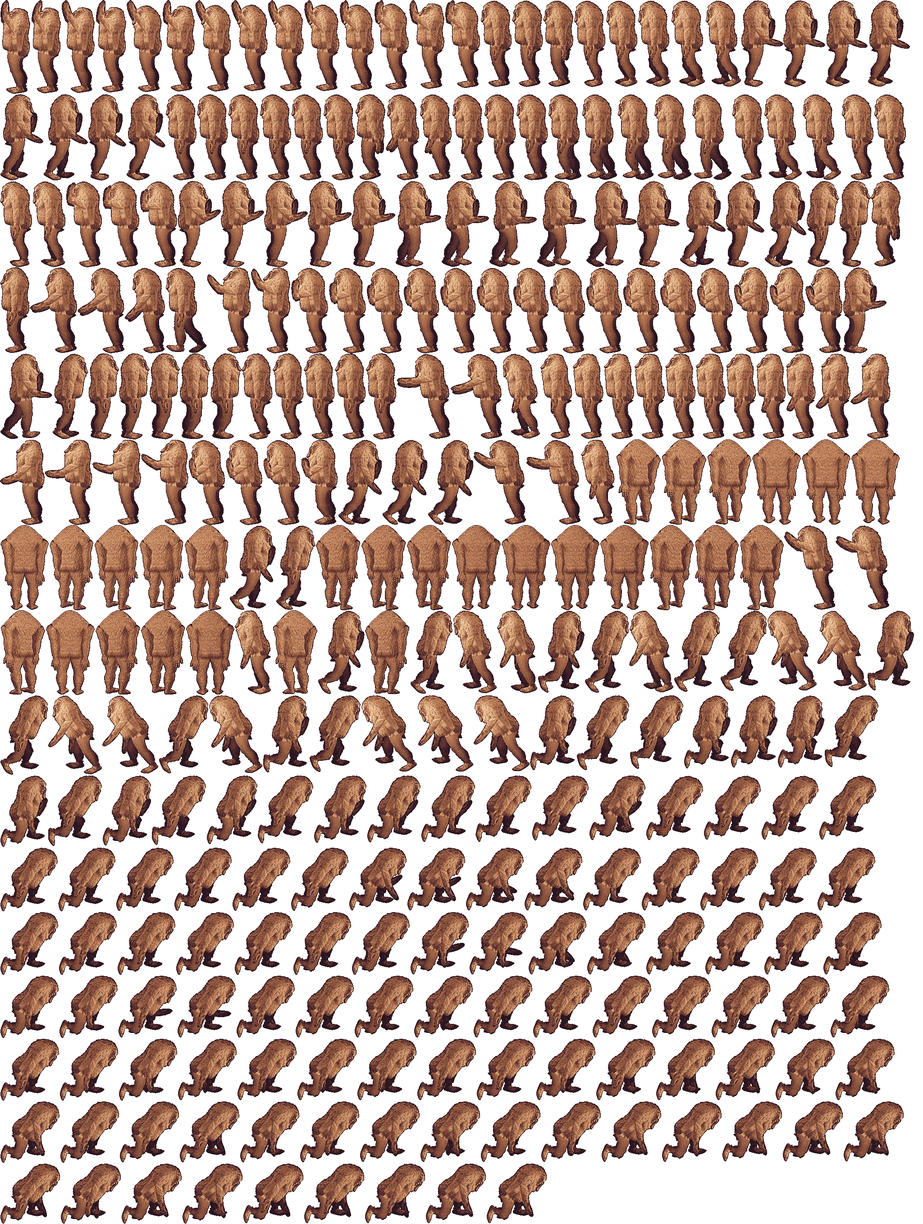
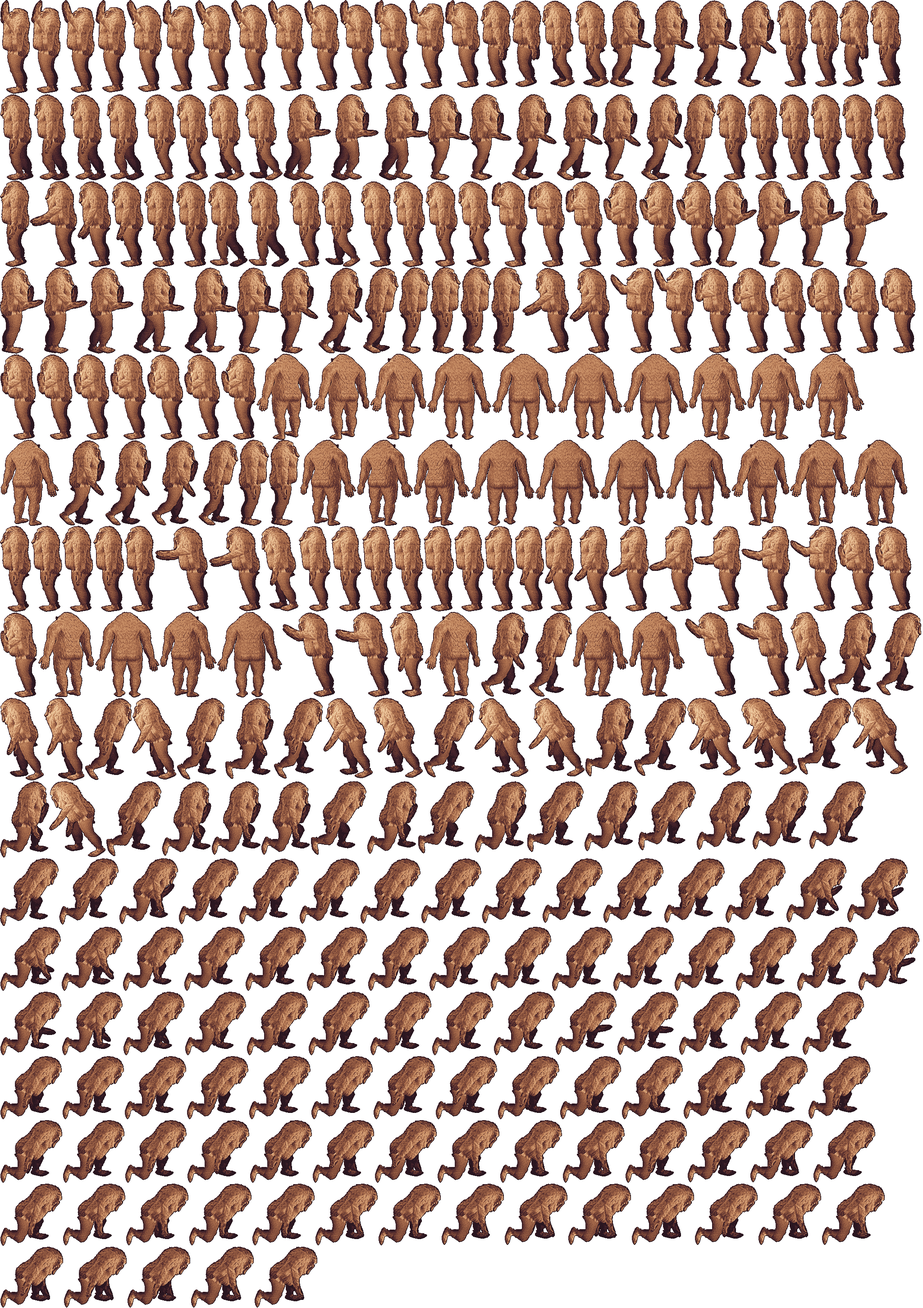
Title animation: rounded joints, ankles, and skinned back-view shoulders
- Knee, hip and elbow pieces share a round cap around each pivot, so a bent
  joint never shows a straight cut; the hip cap only takes the thigh's half.
- Feet are their own piece on an ankle joint.
- Upper thigh widened to match the model's side view.
- Back views: the upper body is one skinned layer, so the shoulders slope into
  the arms like the model instead of being cut; arms hang in a relaxed A-pose.

Claude-Session: https://claude.ai/code/session_01JpLHzsYAvEKzmccr94t7N9

diff --git a/android/play/concepts/pixel/rig4.py b/android/play/concepts/pixel/rig4.py
@@ -18,8 +18,9 @@ S = 0.5
 def P(c, p): return (p[0] * S + c, p[1] * S + c)
 
 class Side:
-    HIP, KNEE, SHOULDER, ELBOW, NECK, HAND = (235, 610), (205, 880), (195, 320), (232, 545), (175, 262), (252, 762)
+    HIP, KNEE, SHOULDER, ELBOW, NECK, HAND = (235, 610), (232, 875), (195, 320), (232, 545), (175, 262), (252, 762)
     ARM = rig3.Side.ARM
+    ANKLE = (256, 1008)
     def __init__(self):
         raw = Image.open('side.png')
         noarm = self._inpaint(raw)
@@ -34,6 +35,9 @@ class Side:
         legsrc = canvas(Image.fromarray(legfix.single_leg(noarm)))   # one clean leg (no overlap seams)
         yy, xx = np.mgrid[0:self.H, 0:self.W]
         sy = (yy - pad) / S; sx = (xx - pad) / S          # source (side.png) coordinates
+        # round joint caps: both pieces of a joint share a soft disc around the pivot, so the
+        # overlap looks the same at any angle (no straight cut shows when the joint bends)
+        def disc(c, R): return 1 - skin.ss((np.hypot(sx - c[0], sy - c[1]) - R + 3) / 6.0)
         # arm: the painted-out region of the original, with a soft top so it melts into the shoulder
         armM = Image.new('L', raw.size, 0); ImageDraw.Draw(armM).polygon(self.ARM, fill=255)
         armM = np.asarray(Image.fromarray(np.asarray(armM)).resize(sz, Image.LANCZOS).filter(ImageFilter.GaussianBlur(1.5))).astype(float) / 255
@@ -50,6 +54,7 @@ class Side:
         fore_w = skin.ss((sA - sE + 16) / 22.0)
         # the top of the upper arm melts into the shoulder over a long, soft fade
         upper_w = upper_w * skin.ss((sA + 30) / 75.0)
+        upper_w = np.maximum(upper_w, disc(self.ELBOW, 40) * skin.ss((sA + 30) / 75.0)); fore_w = np.maximum(fore_w, disc(self.ELBOW, 40))
         # round the fingertips: soften the hand end into a rounded silhouette
         sHand = (self.HAND[0] - shx) * d[0] + (self.HAND[1] - shy) * d[1]
         endz = skin.ss((sA - sHand + 70) / 30.0)
@@ -61,15 +66,18 @@ class Side:
         # the hip line: front of the thigh (low) up through the hip joint to the buttocks (lower at the back)
         hipline = np.interp(sx, [0, 110, 235, 330, 400], [575, 590, 612, 650, 660])
         # legs: everything below the hip line, faded in so the top tucks under the body
-        lf = skin.ss((sy - hipline + 45) / 40.0)
+        lf = np.maximum(skin.ss((sy - hipline + 45) / 40.0), disc(self.HIP, 70) * skin.ss((sy - self.HIP[1] + 6) / 12.0))   # lower half: what's above the hip stays with the body
         l = legsrc.copy(); l[..., 3] = (l[..., 3] * lf).astype(np.uint8)
         self.leg = l
-        thw = 1 - skin.ss((sy - self.KNEE[1] - 8) / 30.0); snw = skin.ss((sy - self.KNEE[1] + 22) / 30.0)
+        kd = disc(self.KNEE, 62); ad = disc(self.ANKLE, 50)
+        thw = np.maximum(1 - skin.ss((sy - self.KNEE[1] - 8) / 30.0), kd); snw = np.maximum(skin.ss((sy - self.KNEE[1] + 22) / 30.0), kd)
+        snw = snw * np.maximum(1 - skin.ss((sy - self.ANKLE[1] - 6) / 20.0), ad)
+        ftw = np.maximum(skin.ss((sy - self.ANKLE[1] + 10) / 20.0), ad)
         def part(img, w):
             o = img.copy(); o[..., 3] = (img[..., 3] * w).astype(np.uint8); return o
-        self.thigh = part(l, thw); self.shin = part(l, snw)
+        self.thigh = part(l, thw); self.shin = part(l, snw); self.foot = part(l, ftw)
         dk = lambda im: np.concatenate([(im[..., :3] * 0.78).astype(np.uint8), im[..., 3:4]], 2)
-        self.fthigh = dk(self.thigh); self.fshin = dk(self.shin)
+        self.fthigh = dk(self.thigh); self.fshin = dk(self.shin); self.ffoot = dk(self.foot)
         # body: everything above the legs (head included), fading out over the thighs
         bf = 1 - skin.ss((sy - hipline + 4) / 18.0)
         bd = body.copy(); bd[..., 3] = (bd[..., 3] * bf).astype(np.uint8)
@@ -124,11 +132,11 @@ class Side:
         wh = skin.ss((up + 40) / 120.0) * (1 - skin.ss((sx - 250) / 120.0))
         return [1 - wh, wh]
 
-    def pose(self, torso=0, head=0, nsh=-8, nel=0, fsh=-4, fel=0, nth=0, nsn=0, fth=0, fsn=0):
+    def pose(self, torso=0, head=0, nsh=-8, nel=0, fsh=-4, fel=0, nth=0, nsn=0, fth=0, fsn=0, nft=0, fft=0):
         """Limbs move as solid pieces (they never crumple) and fade into the body at the shoulder
         and hip; the neck is skinned. Upper arm and forearm overlap at the elbow, thigh and shin at the knee."""
         c = self.PAD
-        H_, K_, SH_, EL_, N_ = (P(c, p) for p in (self.HIP, self.KNEE, self.SHOULDER, self.ELBOW, self.NECK))
+        H_, K_, SH_, EL_, N_, AN_ = (P(c, p) for p in (self.HIP, self.KNEE, self.SHOULDER, self.ELBOW, self.NECK, self.ANKLE))
         T = skin.rot(torso, *H_)
         out = np.zeros((self.H, self.W, 4), np.float32)
         def over(layer):
@@ -145,14 +153,14 @@ class Side:
         def arm(up, fo, sh, el):
             A = T @ skin.rot(sh, *SH_); F = A @ skin.rot(el, *EL_)
             return rigid(up, A), rigid(fo, F), A, F
-        def leg(th_l, sn_l, th, sn, off=(0.0, 0.0)):
+        def leg(th_l, sn_l, ft_l, th, sn, ft, off=(0.0, 0.0)):
             O = np.eye(3); O[0, 2], O[1, 2] = off[0] * S, off[1] * S
-            Th = O @ skin.rot(th, *H_); Sn = Th @ skin.rot(sn, *K_)
-            return rigid(th_l, Th), rigid(sn_l, Sn)
+            Th = O @ skin.rot(th, *H_); Sn = Th @ skin.rot(sn, *K_); Ft = Sn @ skin.rot(ft, *AN_)
+            return rigid(th_l, Th), rigid(sn_l, Sn), rigid(ft_l, Ft)
         fu, ff, fA, fF = arm(self.fupper, self.ffore, fsh, fel)
         over(fu); over(ff)
-        a1, a2 = leg(self.fthigh, self.fshin, fth, fsn, (38, -6)); over(a2); over(a1)
-        b1, b2 = leg(self.thigh, self.shin, nth, nsn); over(b2); over(b1)
+        a1, a2, a3 = leg(self.fthigh, self.fshin, self.ffoot, fth, fsn, fft, (38, -6)); over(a3); over(a2); over(a1)
+        b1, b2, b3 = leg(self.thigh, self.shin, self.foot, nth, nsn, nft); over(b3); over(b2); over(b1)
         over(skin.warp(self.body, [T, T @ skin.rot(head, *N_)], self.w_body))
         nu, nf, nA, nF = arm(self.upper, self.fore, nsh, nel)
         over(nu); over(nf)
@@ -161,32 +169,32 @@ class Side:
         return Image.fromarray(np.clip(out, 0, 255).astype(np.uint8)), info
 
 class Back:
-    """Back views: the arms come down from the T-pose, skinned at the shoulder (they stay attached)."""
+    """Back views. The upper body is ONE skinned layer: each arm swings in from the A-pose about
+    its shoulder, and the shoulder fur stretches with it (linear blend skinning), so there is no
+    cut at the shoulder. The arm itself is a second layer warped by the very same field and drawn
+    on top, so where it swings in over the body's side it stays in front."""
     def __init__(self, name, arms, lhang, rhang, crotch):
         raw = Image.open(name); self.src = raw
         sz = (round(raw.width * S), round(raw.height * S)); self.PAD = pad = 300
         self.W, self.H = sz[0] + 2 * pad, sz[1] + 2 * pad
         c = Image.new('RGBA', (self.W, self.H)); c.paste(raw.resize(sz, Image.LANCZOS), (pad, pad)); full = np.asarray(c).copy()
         yy, xx = np.mgrid[0:self.H, 0:self.W]; sx = (xx - pad) / S; sy = (yy - pad) / S
-        self.arms = []; body_alpha = full[..., 3].astype(float)
+        self.armdefs = []; body_alpha = full[..., 3].astype(float); armlayer = np.zeros_like(full)
         for poly, sh, hand, hang in ((arms[0][0], arms[0][1], arms[0][2], lhang), (arms[1][0], arms[1][1], arms[1][2], rhang)):
             m = Image.new('L', raw.size, 0); ImageDraw.Draw(m).polygon(poly, fill=255)
+            mw = np.asarray(m.filter(ImageFilter.MaxFilter(41)).resize(sz, Image.LANCZOS).filter(ImageFilter.GaussianBlur(10))).astype(float) / 255
             m = np.asarray(m.resize(sz, Image.LANCZOS).filter(ImageFilter.GaussianBlur(2))).astype(float) / 255
             M = np.zeros((self.H, self.W)); M[pad:pad + sz[1], pad:pad + sz[0]] = m
+            MW = np.zeros((self.H, self.W)); MW[pad:pad + sz[1], pad:pad + sz[0]] = mw
             d = (hand[0] - sh[0], hand[1] - sh[1]); L = math.hypot(*d); d = (d[0] / L, d[1] / L)
-            s = (sx - sh[0]) * d[0] + (sy - sh[1]) * d[1]
-            fade = skin.ss((s + 30) / 40.0)
-            layer = full.copy(); layer[..., 3] = (full[..., 3] * M * fade).astype(np.uint8)
-            body_alpha = body_alpha * (1 - M * skin.ss((s + 10) / 30.0))
-            self.arms.append((layer, sh, d, hang))
+            sA = (sx - sh[0]) * d[0] + (sy - sh[1]) * d[1]
+            # the arm layer starts a little past the shoulder; the body keeps everything before it
+            af = M * skin.ss((sA - 20) / 40.0)
+            armlayer[..., :3] = np.where(af[..., None] > 0.01, full[..., :3], armlayer[..., :3])
+            armlayer[..., 3] = np.maximum(armlayer[..., 3], (full[..., 3] * af)).astype(np.uint8)
+            body_alpha = body_alpha * (1 - M * skin.ss((sA - 62) / 20.0))   # only once the arm layer is opaque
+            self.armdefs.append(((sh[0] * S + pad, sh[1] * S + pad), d, sh, hang, MW))
         b = full.copy(); b[..., 3] = np.clip(body_alpha, 0, 255).astype(np.uint8)
-        # round the shoulders where the arms came away
-        bi = Image.fromarray(b); al = bi.getchannel('A')
-        top = Image.new('L', bi.size, 0); ImageDraw.Draw(top).rectangle([0, 0, self.W, int(pad + (arms[0][1][1] + 160) * S)], fill=255)
-        dome = al.filter(ImageFilter.GaussianBlur(14)).point(lambda v: 255 if v > 140 else 0)
-        from PIL import ImageChops
-        bi.putalpha(Image.composite(ImageChops.multiply(dome, al), al, top))
-        b = np.asarray(bi).copy()
         # legs, split at the crotch, so each foot can step during a turn
         cx_, cy_ = crotch
         legf = skin.ss((sy - cy_ + 70) / 40.0)
@@ -197,13 +205,47 @@ class Back:
             self.legs.append(l)
         bodyf = 1 - skin.ss((sy - cy_ - 10) / 20.0)
         b[..., 3] = (b[..., 3] * bodyf).astype(np.uint8)
-        self.body = b
+        self.body = b; self.armlayer = armlayer
         self.crotch = (cx_ * S + pad, cy_ * S + pad)
         self.hipx = ((arms[0][1][0] + arms[1][1][0]) / 2) * S + pad
 
+    def _weights(self):
+        pad = self.PAD; defs = self.armdefs
+        def w(x, y):
+            sx = (x - pad) / S; sy = (y - pad) / S
+            ws = []
+            for piv, d, sh, hang, MW in defs:
+                sA = (sx - sh[0]) * d[0] + (sy - sh[1]) * d[1]
+                # the arm (dilated into the armpit gap), and everything outward of its axis, belongs to the
+                # arm (so the inverse warp has one answer and nothing is left behind)
+                t = (d[0] * (sy - sh[1]) - d[1] * (sx - sh[0])) * (-1 if d[0] > 0 else 1)
+                xi = np.clip(np.round(x).astype(int), 0, self.W - 1); yi = np.clip(np.round(y).astype(int), 0, self.H - 1)
+                ws.append(np.maximum(MW[yi, xi], skin.ss(t / 30.0)) * skin.ss((sA + 50) / 110.0))
+            tot = ws[0] + ws[1]; sc = np.where(tot > 1, 1 / np.maximum(tot, 1e-6), 1.0)
+            ws = [ws[0] * sc, ws[1] * sc]
+            return [1 - ws[0] - ws[1]] + ws
+        return w
+
+    def _arm_weights(self):
+        """For the arm layer alone: each half of the picture follows its arm (ramping in from the
+        shoulder exactly as the body's field does inside the arm), so a hand that swings in front of
+        the hips is still found."""
+        pad = self.PAD; defs = self.armdefs; mid = self.hipx
+        def w(x, y):
+            sx = (x - pad) / S; sy = (y - pad) / S; ws = []
+            for k, (piv, d, sh, hang, MW) in enumerate(defs):
+                sA = (sx - sh[0]) * d[0] + (sy - sh[1]) * d[1]
+                half = (x < mid) if k == 0 else (x >= mid)
+                ws.append(skin.ss((sA + 50) / 110.0) * half)
+            return [1 - ws[0] - ws[1]] + ws
+        return w
+
     def pose(self, tuck=0.0, lift=(0.0, 0.0)):
-        """tuck: hands in toward the chest; lift: how far each foot (left, right as seen) is raised in a step."""
+        """tuck: hands in toward the body; lift: how far each foot (left, right as seen) is raised in a step."""
         out = np.zeros((self.H, self.W, 4), np.float32)
+        def over(l):
+            a = l[..., 3:4].astype(np.float32) / 255
+            out[..., :3] = l[..., :3] * a + out[..., :3] * (1 - a); out[..., 3] = np.maximum(out[..., 3], l[..., 3])
         for side, l in enumerate(self.legs):
             u = lift[side]
             if u > 0.01:
@@ -215,27 +257,21 @@ class Back:
                 pm = np.concatenate([f[..., :3] * al, f[..., 3:4]], 2)
                 r = cv2.warpAffine(pm, M[:2].astype(np.float32), (self.W, self.H), flags=cv2.INTER_LINEAR, borderValue=0)
                 alr = r[..., 3:4] / 255; l = np.zeros_like(l); l[..., :3] = np.clip(np.where(alr > 1e-3, r[..., :3] / np.maximum(alr, 1e-3), 0), 0, 255); l[..., 3] = np.clip(r[..., 3], 0, 255)
-            a = l[..., 3:4].astype(np.float32) / 255
-            out[..., :3] = l[..., :3] * a + out[..., :3] * (1 - a); out[..., 3] = np.maximum(out[..., 3], l[..., 3])
-        a = self.body[..., 3:4].astype(np.float32) / 255
-        out[..., :3] = self.body[..., :3] * a + out[..., :3] * (1 - a); out[..., 3] = np.maximum(out[..., 3], self.body[..., 3])
-        for layer, sh, d, hang in self.arms:
-            ang = hang + (12 * tuck if hang > 0 else -12 * tuck)
-            piv = (sh[0] * S + self.PAD, sh[1] * S + self.PAD)
-            bones = [np.eye(3), skin.rot(ang, *piv)]
-            def w(x, y, sh=sh, d=d):
-                s = ((x - self.PAD) / S - sh[0]) * d[0] + ((y - self.PAD) / S - sh[1]) * d[1]
-                w1 = skin.ss((s + 10) / 70.0); return [1 - w1, w1]
-            a = skin.warp(layer, bones, w).astype(np.float32)
-            al = a[..., 3:4] / 255
-            out[..., :3] = a[..., :3] * al + out[..., :3] * (1 - al); out[..., 3] = np.maximum(out[..., 3], a[..., 3])
+            over(l)
+        bones = [np.eye(3)]
+        for piv, d, sh, hang, MW in self.armdefs:
+            ang = hang + (8 * tuck if hang > 0 else -8 * tuck)
+            bones.append(skin.rot(ang, *piv))
+        w = self._weights()
+        over(skin.warp(self.body, bones, w))
+        over(skin.warp(self.armlayer, bones, self._arm_weights()))
         return Image.fromarray(out.astype(np.uint8)), dict(hip=(self.hipx, 0))
 
 def back():
     L = [(300, 240), (330, 80), (-40, 380), (-40, 640), (90, 640), (110, 560)]
     R = [(906 - x, y) for x, y in L]
-    return Back('back.png', ((L, (300, 205), (40, 500)), (R, (606, 205), (866, 500))), 40, -40, (453, 600))
+    return Back('back.png', ((L, (300, 205), (40, 500)), (R, (606, 205), (866, 500))), 20, -20, (453, 600))
 def back34():
     L = [(330, 330), (372, 150), (-40, 330), (-40, 700), (90, 700), (140, 620)]
     R = [(690, 380), (640, 150), (1010, 300), (1010, 700), (900, 700), (860, 640)]
-    return Back('back34.png', ((L, (320, 235), (60, 580)), (R, (690, 268), (930, 590))), 35, -35, (496, 690))
+    return Back('back34.png', ((L, (320, 235), (60, 580)), (R, (690, 268), (930, 590))), 18, -18, (496, 690))

diff --git a/android/play/concepts/pixel/legfix.py b/android/play/concepts/pixel/legfix.py
@@ -43,7 +43,7 @@ def single_leg(img, y0=560, y1=1000):
     # back edge of the near leg (traced by hand over the model): everything behind it is the
     # far leg and the buttock, which the far-leg layer and the body draw instead
     by = [600, 612, 640, 660, 700, 740, 800, 860, 920, 960, 1000, 1030]
-    bx = [345, 338, 300, 262, 250, 250, 256, 294, 314, 310, 292, 284]
+    bx = [345, 340, 310, 282, 268, 262, 262, 294, 314, 310, 292, 284]
     yy, xx = np.mgrid[0:H, 0:W]
     edge = np.interp(yy, by, bx)
     keep = 1 - ss((xx - edge + 2) / 5.0)
